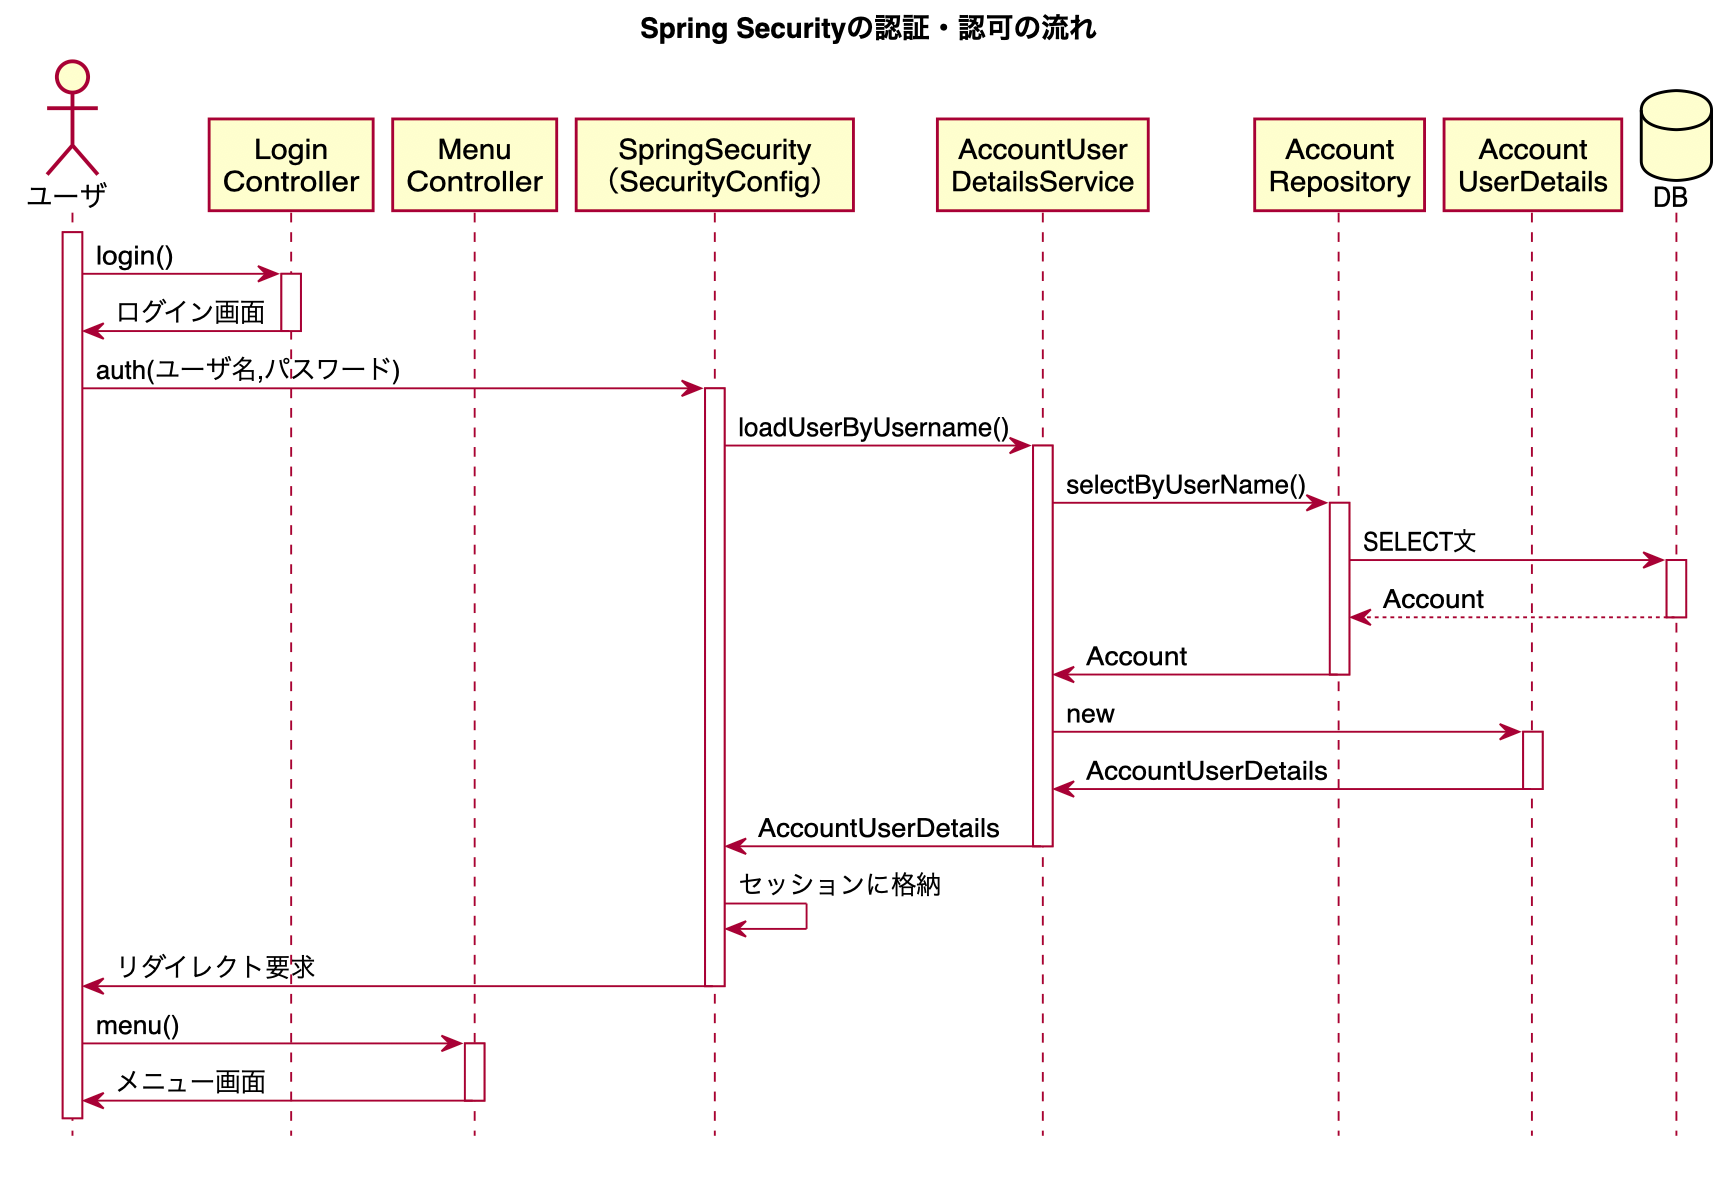
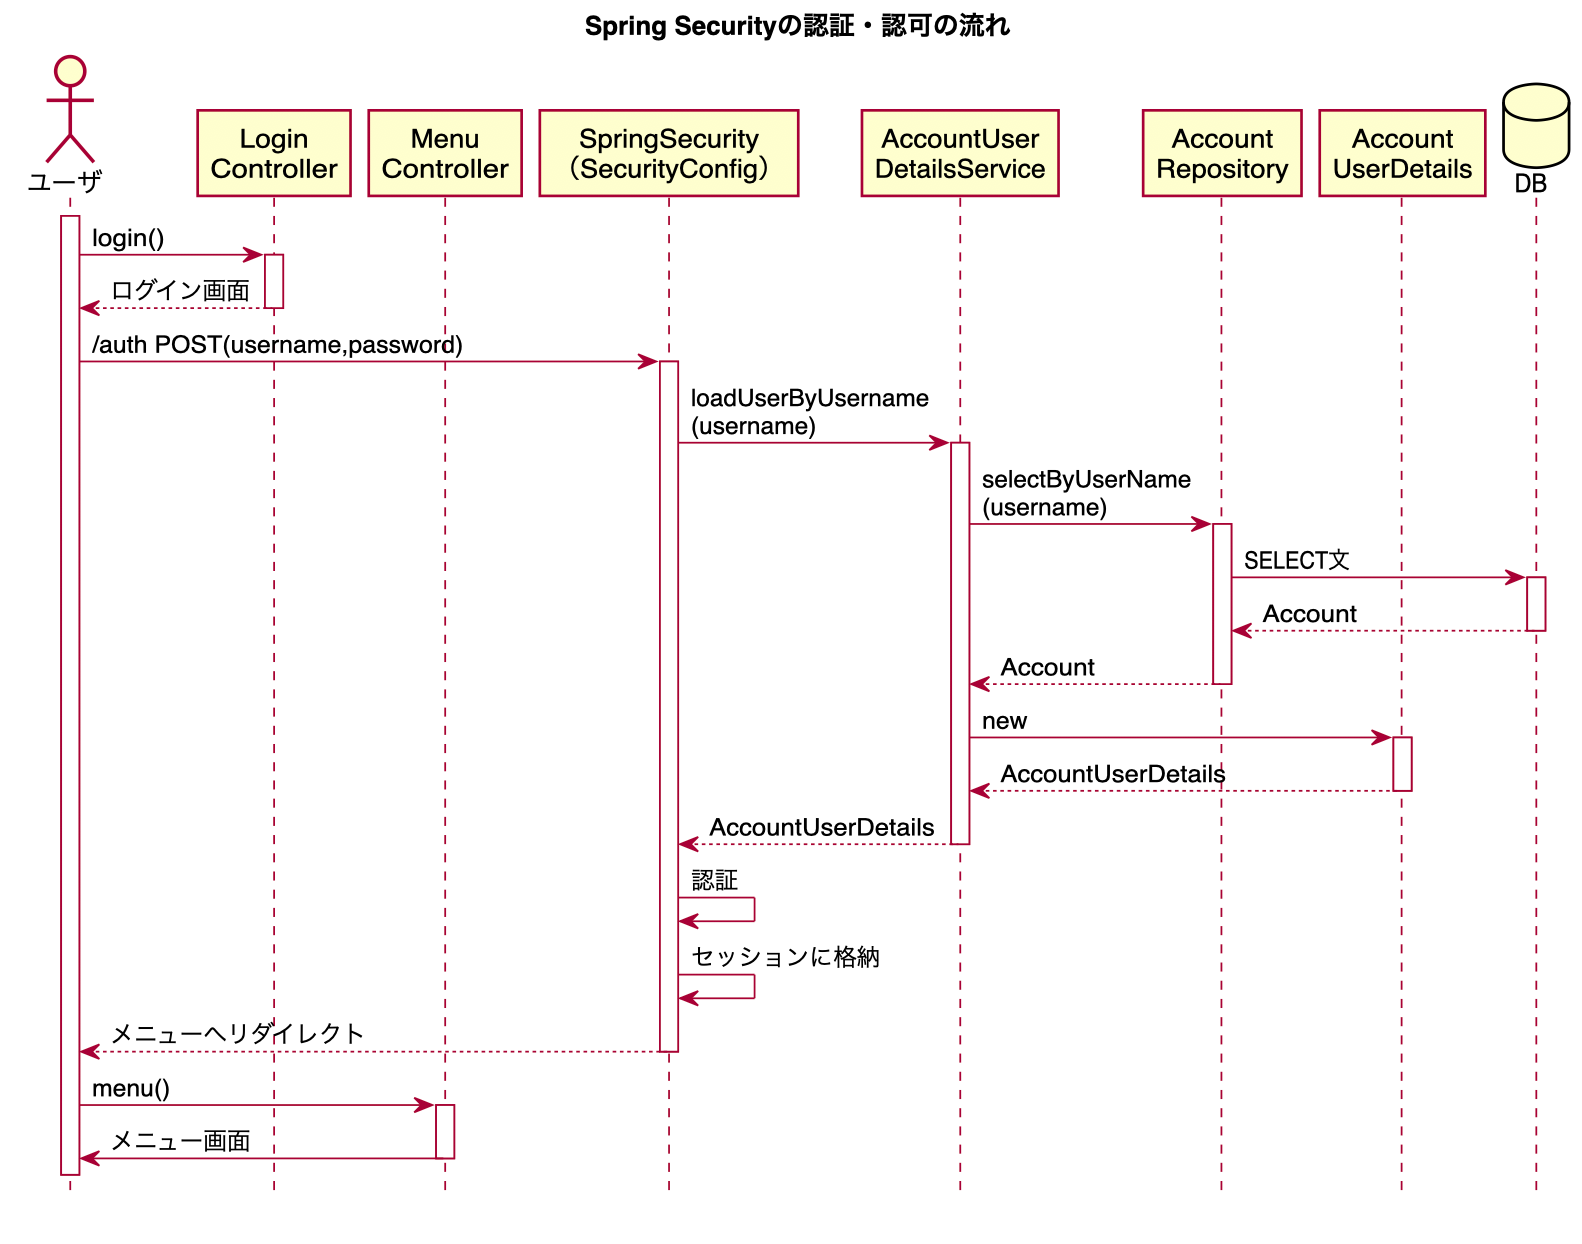
Spring Securityの動作確認に文言を追加

diff --git a/spring-security.md b/spring-security.md
@@ -1,84 +1,236 @@
-<link href="css/style.css" rel="stylesheet"></link>
+# Spring Securityの認証・認可の動作確認
 
-# Spring Securityの動作確認
-
-## 処理の流れ
-
-![](img/spring-security-sequence.png)
+Spring Secrityを使った認証・認可機能の実装について確認していきます。
 
 ## 環境構築
 
+Spring Secrityを使った認証・認可機能に必要な環境を構築していきます。
+
 ### テーブル定義ファイル作成
+
+まず、認証・認可に必要なDBのテーブルを`src/main/resources/sql`の中に`accounnt_data.sql`として定義します。
+
+- このSQLを使ってTestクラスで再帰的にテストできるテストデータとして作成しています。
+- 作成しているテーブルは次のものです。
+  - `account`テーブル
+    - ユーザアカウント情報テーブル
+  - `account_role`テーブル
+    - ユーザアカウントの権限テーブル
 
 ![](img/spring-security-01.png)
 
 ### 依存関係の追加
 
+Spring Security関連の依存関係を追加します。
+
 ![](img/spring-security-02.png)
 
-## ユーザの登録機能実装
+## ユーザアカウントの登録機能実装
+
+それではまずユーザアカウント登録機能を実装します。
+
+### 処理の流れ
+
+今回のユーザアカウント登録の処理の流れは下図のシーケンス図のとおりです。
+
+- Mybatisを使ってユーザアカウントをDBに登録する処理です。
+  - テストクラス`AccountServiceTest`からEntityの`Account`インスタンスを作る
+  - `Account`インスタンスのパスワードを暗号化する
+  - `AccountService`の`addAccount`メソッドを呼びユーザアカウント登録を依頼する
+  - `AccountService`から`AccountRepository`へ`insert`メソッドを使ってDBにたいして　ユーザアカウント登録を行う
+
+![](img/spring-security-add-account-sequence.png)
 
 ### Entityの実装
 
+DBのアカウントとアカウント権限テーブルに合わせたEntityクラスを実装します。
+
+_(src/main/java)com.example.demo.entity.AccountRole.java_
+
 ![](img/spring-security-03.png)
+
+_(src/main/java)com.example.demo.entity.Account.java_
 
 ![](img/spring-security-04.png)
 
 ### Repositoryの実装
 
+MybatisでのデータのCRUDの実装方法に習って`AccountRepository.java`のMapperインターフェースと、`AccountRepository.xml`のMapperXMLを作成します。
+
+_(src/main/java)com.example.demo.repository.AccountRepository.java_
+
 ![](img/spring-security-05.png)
+
+_src/main/resource/com/example/demo/repository/AccountRepository.xml_
+
 ![](img/spring-security-06.png)
 
 ### Serviceの実装
 
+`AccountRepository`のMapperインターフェースをインジェクションしてユーザアカウント登録処理を依頼する`AccountService.java`インターフェースと、`AccountServiceImpl.java`クラスを作ります。
+
+- ControllerからこのServiceクラスを呼ばれることを想定して、ControllerからServiceをインターフェース依存するために`com.example.demo.service`パッケージの中に`AccountService`インターフェースを作っています。
+  - `AccountService`インターフェースを実装した`AccountServiceImpl`クラスを作り、そこで`AccountRepository`をインジェクションしてユーザアカウント登録を依頼しています。
+
+_(src/main/java)com.example.demo.service.AccountService.java_
+
 ![](img/spring-security-07.png)
+
+_(src/main/java)com.example.demo.service.AccountServiceImpl.java_
 
 ![](img/spring-security-08.png)
 
 ### パスワードエンコードのDI設定
 
+ユーザアカウント情報をDBに登録する前にパスワード情報を暗号化するためにSpring Securityが提供している`PasswordEncoder`インターフェースのインスタンスをDIするよう設定しています。
+
+- ベースパッケージ（`com.example.demo`）直下に`AppConfig.java`のクラスを作成します。
+- 今回はBcryptという暗号アルゴリズムを使うのでインジェクションするインスタンスは`BCryptPasswordEncoder`にしています。
+
+_(src/main/java)com.example.demo.AccountConfig.java_
+
 ![](img/spring-security-09.png)
 
 ### Serviceのテスト
 
-- **AccountServiceTest.java**を実行して暗号化されたパスワードでユーザを登録している状態にしておいてください。
+それでは実装した`AccountService`の実装クラスを使ってユニットテストを行い、ユーザアカウント登録されるか確認します。
+
+`src/test/java`フォルダに`com.example.demo.service`パッケージの中に`AccountServiceTest.java`のテストクラスを作成します。
+
+- `AccountService`インタフェースの変数に`AccountServiceImpl`クラスをインジェクションするようにしています。
+- `PasswordEncoder`インタフェースの変数に`BCryptPasswordEncoder`クラスをインジェクションするようにしています。
+- `testAddAccount`メソッド（テストケース）を作りユーザアカウント登録の動作確認を行っています。
+  - `AccountService`の`addAccount`メソッドの引数にパスワードをエンコードした`Account`インスタンスを入れて登録処理を行っています。
+  - それぞれのユーザアカウントには権限を異なるものになるように`AccountRole`をインスタンス化しています。
+
+_(src/test/java)com.example.demo.service/AccountServiceTest.java_
 
 ![](img/spring-security-10.png)
 
+テストを実行して合格する事を確認してください。
+
+- 今回はアサートメソッドを入れていないので、登録処理が正常に完了したら合格します。
+
 ![](img/spring-security-11.png)
+
+psqlなどDBを操作するツールを使いaccountテーブルにレコードが追加されていることを確認してください。
+
+- パスワード情報がエンコードされていることも確認してください。
 
 ![](img/spring-security-12.png)
 
-
 ## 認証・認可機能の実装
+
+続いて、DBに登録したユーザアカウント情報にて認証・認可を実装していきます。
+
+### 処理の流れ
+
+ログイン画面から認証を行い、認証成功したらメニュー画面へ遷移する流れは下図のようになります。
+
+- ユーザはControllerから提供されるログイン画面にてユーザとパスワードを入力してSpring Security本体に認証依頼を行います。
+- Spring Security本体は送られたユーザ名を使って`AccountUserDetailsService`の`loadUserByUserName`メソッドを呼び出してユーザ名の情報取得の依頼をします。
+- `AccountUserDetailsService`は`AccountRepository`の`selectByUserName`を呼び出して該当するユーザ名のレコードを取得処理を行います。
+- 該当するユーザ名のユーザアカウントが取得できた場合は、`AccountUserDetailsService`は`Account`のEntityからSpring Security本体で認証ができる`AccountUserDetails`に変換します。
+- `AccountUserDetailsService`からSpring Security本体に`AccountUserDetails`を戻し、Spring Securityは認証を行います。
+- 認証に成功するとSpring Security本体はユーザアカウント情報をセッションに格納してログイン成功後の画面（今回はメニュー画面）に遷移するようリダイレクト要求を出します。
+- ユーザはメニュー画面に遷移します。
+
+![](img/spring-security-sequence.png)
 
 ### AccountReposirotyの更新
 
+ユーザ名からユーザ情報をDBから取得できるように`AccountRepository.java`インターフェースと`AccountRepository.xml`のMapperXMLを更新します。
+
+_(src/main/java)com.example.demo.repository.AccountRepository.java_
+
 ![](img/spring-security-13.png)
+
+_src/main/resource/com/example/demo/repository/AccountRepository.xml_
 
 ![](img/spring-security-14.png)
 
-### UserDetailインターフェース実装クラスの実装
+### UserDetailssインターフェース実装クラスの実装
+
+DBから`AccountRepository`で取得した`Account`インスタンスをSpring Security本体で認証できるように`UserDetails`インターフェースを実装した`AccountUserDetails`クラスを実装します。
+
+- ユーザアカウント情報を保持するための`Account`のフィールドを追加します。
+- ユーザアカウント権限を保持するための`Collection<GrantedAuthority>`のフィールドを追加します。
+- インスタンス生成時にフィールドの値を初期化するための引数付きコンストラクタを定義します。
+- `UserDetails`インターフェースを実装することによりオーバーライドしないといけない次のメソッドを定義します。
+  - `getAuthorities`メソッド
+    - ユーザアカウント権限情報を戻します。
+  - `getPassword`メソッド
+    - ユーザアカウントのパスワードを戻します。
+  - `getUsername`メソッド
+    - ユーザアカウントのユーザ名を戻します。
+  - `isAccountNotExpired`メソッド
+    - アカウント自体の有効期限を今回は無効にするので戻り値を`true`にしています。
+  - `isAccountNotLocked`メソッド
+    - 認証時のアカウントロックを今回は無効にするので戻り値を`true`にしています。
+  - `isConfidentialsNotExpired`メソッド
+    - 認証時の有効期限を今回は無効にするので戻り値を`true`にしています。
+  - `isEnabled`メソッド
+    - アカウントを有効にするため戻り値を`true`にしています。
 
 ![](img/spring-security-15.png)
 
 ### UserDetailServiceインターフェース実装クラスの実装
 
+Spring Security本体から呼ばれ、`AccountRepository`にて`Account`インスタンスを受け取り、`AccountUserDetails`インスタンスに変換させるサービスクラス`AccountUserDetails`クラスを実装します。
+
+- `AccountUserDetails`をインスタンス化するための権限情報`authorities`をセットするために`getAuthorise`のprivateなメソッドを定義し、その中で`Account`の中の`AccountRole`の権限名をswitch-case文で条件分岐して`AuthrityUtils`の`createAuthorityList`のスタティックメソッドを使ってSpring Securityが認識できる権限に変換しています。
+
 ![](img/spring-security-16.png)
 
 ### SecurityConfigクラスの実装
+
+Spring Security本体の設定を行う`SeruciryConfig`クラスを実装します。
+
+- `com.example.demo.seruciry`パッケージに`SeruciryConfig.java`クラスを作成します。
+- クラス部分には`@EnableWebSecurity`アノテーションを付与します。
+- `WebSecurityConfigreAdapter`クラスを継承します。
+- `AccountUserDetails`インスタンスを取得するために`AccountUserDetailsService`のフィールドを宣言しDIでインジェクションします。
+- 画面から入力されたパスワードをエンコードするための`PasswordEncoder`フィールドを宣言しDIでインジェクションします。
+- `@Autowired`を付与した`configreAuthenticateManager`メソッドを実装します。
+  - これによりSpring Boot起動時にこのメソッドが実行されます。
+  - 継承している`WebSecurityConfigreAdapter`の`auth`フィールドの`userDetailsService`メソッドと、`passwordEncoder`メソッドを使い、今回Spring Securityの認証時に使うサービスとパスワードエンコーダーを登録しています。
+- `configure(WebSecurity web)`メソッドをオーバーライドして認証を無視するURLを指定しています。
+  - 画像やcssファイルなどのファイルは認証対象にしないよう今回は`/public`配下のファイルを対象外にしています。
+- `configure(HttpSecurity web)`メソッドをオーバーライドして認証のルールや、ログイン画面、ログアウト画面のルールを設定しています。
 
 ![](img/spring-security-17.png)
 
 ### コントローラーの実装
 
+Spring Security本体にユーザ名とパスワードを送るためのログイン画面と、認証後のメニュー画面を表示させるためのコントローラーを作成します。
+
+_com.example.demo.controller.LoginController.java_
+
 ![](img/spring-security-18.png)
 
 ### Viewの実装
 
+#### ログイン画面の作成
+
+ログイン画面のViewを作成します。
+
+- 認証失敗時のエラーメッセージを表示するために`th:if`を使ってセッションに`SPRING_SECURITY_LAST_EXCEPTION`がnullか確認しnullでない場合は`th:text`にてセッションの`SPRING_SECURITY_LAST_EXCEPTION`のキーの内容のメッセージを出力するようにしています。
+- `form`タグのaction属性は`th:action`にしてSpring Securityの認証URLにPOSTで送信しています。
+  - `th:action`によりCSRF対策のトークンが生成されます。
+    - CSRF対策のトークンが生成されないとSpring Securityで認証しません。
+
 _src/main/resources/templates/login.html_
 
 ![](img/spring-security-19.png)
+
+#### メニュー画面の作成
+
+- `html`タグの箇所にThymeleaf対応させるための`xmlnns:th`属性に加え、`xmlns:sec`属性も追加します。
+  - `xmlns:sec`属性はSpring Security関連のThymeleaf属性を追加するための設定です。
+- `div`タグの`sec:authorize="isAuthenticated"`を指定することにより認証済みの場合に子要素を表示させる動作になります。
+- `sec:authentication="principal.username"`にて認証しているユーザ名を出力できます。
+- `sec:authorize="hasRole('GUEST')"`などの指定によりユーザアカウント権限毎にHTML要素を出し分ける事ができます。
+- ログアウトボタンは`form`タグでPOST通信で`th:action="@{/logout}"`でSpring Securityに送信しログアウトできます。
 
 _src/main/resources/templates/menu.html_
 
@@ -86,15 +238,38 @@ _src/main/resources/templates/menu.html_
 
 ### ログイン認証時のエラーメッセージの定義
 
+ログイン画面で認証失敗時のエラーメッセージはデフォルトは英語なので、日本語に変更したい場合には下図のように`messages.properties`に追加する必要があります。
+
 ![](img/spring-security-21.png)
-spring-security-22
+
+_(src/main/resources)messages.properties_
+
+```properties
+AbstractUserDetailsAuthenticationProvider.locked=入力されたユーザ名はロックされています。
+AbstractUserDetailsAuthenticationProvider.disabled=入力されたユーザ名は使用できません。
+AbstractUserDetailsAuthenticationProvider.expired=入力されたユーザ名の有効期限が切れています。
+AbstractUserDetailsAuthenticationProvider.credentialsExpired=入力されたユーザ名のパスワードの有効期限が切れています。
+AbstractUserDetailsAuthenticationProvider.badCredentials=入力されたユーザ名あるいはパスワードが正しくありません。
+```
 
 ### 動作確認
 
+それではログイン画面にアクセスして認証・認可機能が動作するか確認します。
+
+- **AccountServiceTest.java**を実行して暗号化されたパスワードでユーザを登録している状態にしておいてください。
+
+_ログイン画面_
+
 ![](img/spring-security-login.png)
+
+_メニュー画面（権限がadminの場合）_
 
 ![](img/spring-security-menu-admin.png)
 
+_メニュー画面（権限がuserの場合）_
+
 ![](img/spring-security-menu-user.png)
+
+_メニュー画面（権限がguestの場合）_
 
 ![](img/spring-security-menu-guest.png)
